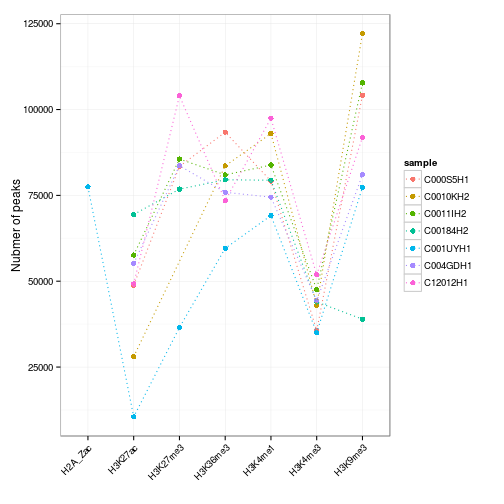
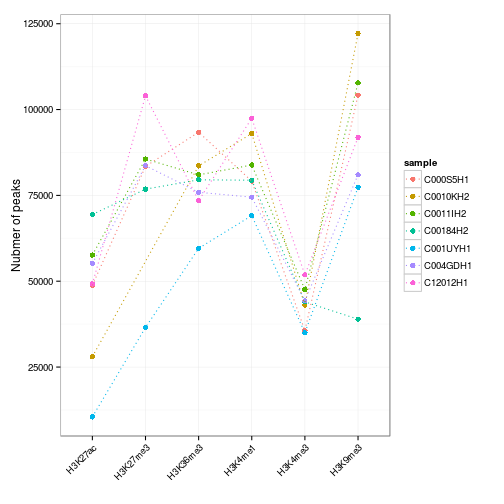
updated results

diff --git a/README.md b/README.md
@@ -151,6 +151,7 @@ Table: Fisher's Exact Test for Count Data: 357808 and 1868 out of 836800 and 484
 ![Distance from lead SNP to nearest methylation island](figure/methDistLeadPlot.png) 
 
 # Histone modification data
+## Data processing
 The Blueprint consortium provides BED files with peak calls for a number of 
 histone modifications obtained from neutrophils. As with the methylation data
 the format of the BED files is non-standard and the first five columns have to be
@@ -175,6 +176,10 @@ in the data set with varying numbers of samples (see Table 1).
 
 Table: **Table 1:** Summary of available ChIP-seq samples
 
+The single sample with H2A_Zac ChIP data is excluded from further analysis.
+
+
+
 
 
 Considering high level summaries of the data, the variation in peak calls between samples
@@ -188,7 +193,26 @@ consensus peak calls accross samples this may not be an issue.
 
 ![**Figure 2:** Median width of ChIP-seq peaks for each histone modification per sample.](figure/peakWidthPlot.png) 
 
+## Define location of histone modifications
+To obtain a set of peak calls for each histone modification that can be considered 
+a consensus across all available samples we only consider peaks that are supported
+by at least three samples.
 
+
+
+To assess the effect this has on the overall distribution of identified histone marks
+we compare the number and length of peaks obtained before and after consolidating peak 
+calls. As Figure 3 shows, this generally results in peak counts
+that appear to be a reasonable approximation of the average peak count for each
+histone modification. Similarly, the length of the resulting regions appears to be largely 
+consistent with the lengths observed in idividual samples. For some marks,
+H3K27me3 and H3K36me3 in particular, peaks seem to be noticibly shortened. While some
+shortening of peaks is expected, a less substantial change would be desireable.
+As far as annotating eQTL is concerded the effect is likely to be minor, however.
+
+![**Figure 3:** Difference in the number of peaks before and after consolidating samples](figure/comparePeakCountPlot.png) 
+
+![**Figure 4:** Difference in peak width before and after consolidating samples.](figure/compareWidthPlot.png) 
 # Appendix {-}
 ## Custom functions used
 
@@ -281,9 +305,9 @@ tabRef <- local({
 ## [7] BiocGenerics_0.10.0  knitr_1.6.14        
 ## 
 ## loaded via a namespace (and not attached):
-##  [1] colorspace_1.2-4 digest_0.6.4     evaluate_0.5.5   formatR_1.0     
-##  [5] grid_3.1.1       gtable_0.1.2     labeling_0.3     MASS_7.3-34     
-##  [9] munsell_0.4.2    plyr_1.8.1       proto_0.3-10     Rcpp_0.11.2     
-## [13] reshape2_1.4     stats4_3.1.1     stringr_0.6.2    tools_3.1.1     
-## [17] XVector_0.4.0
+##  [1] codetools_0.2-9  colorspace_1.2-4 digest_0.6.4     evaluate_0.5.5  
+##  [5] formatR_1.0      grid_3.1.1       gtable_0.1.2     labeling_0.3    
+##  [9] MASS_7.3-34      munsell_0.4.2    plyr_1.8.1       proto_0.3-10    
+## [13] Rcpp_0.11.2      reshape2_1.4     stats4_3.1.1     stringr_0.6.2   
+## [17] tools_3.1.1      XVector_0.4.0
 ```
